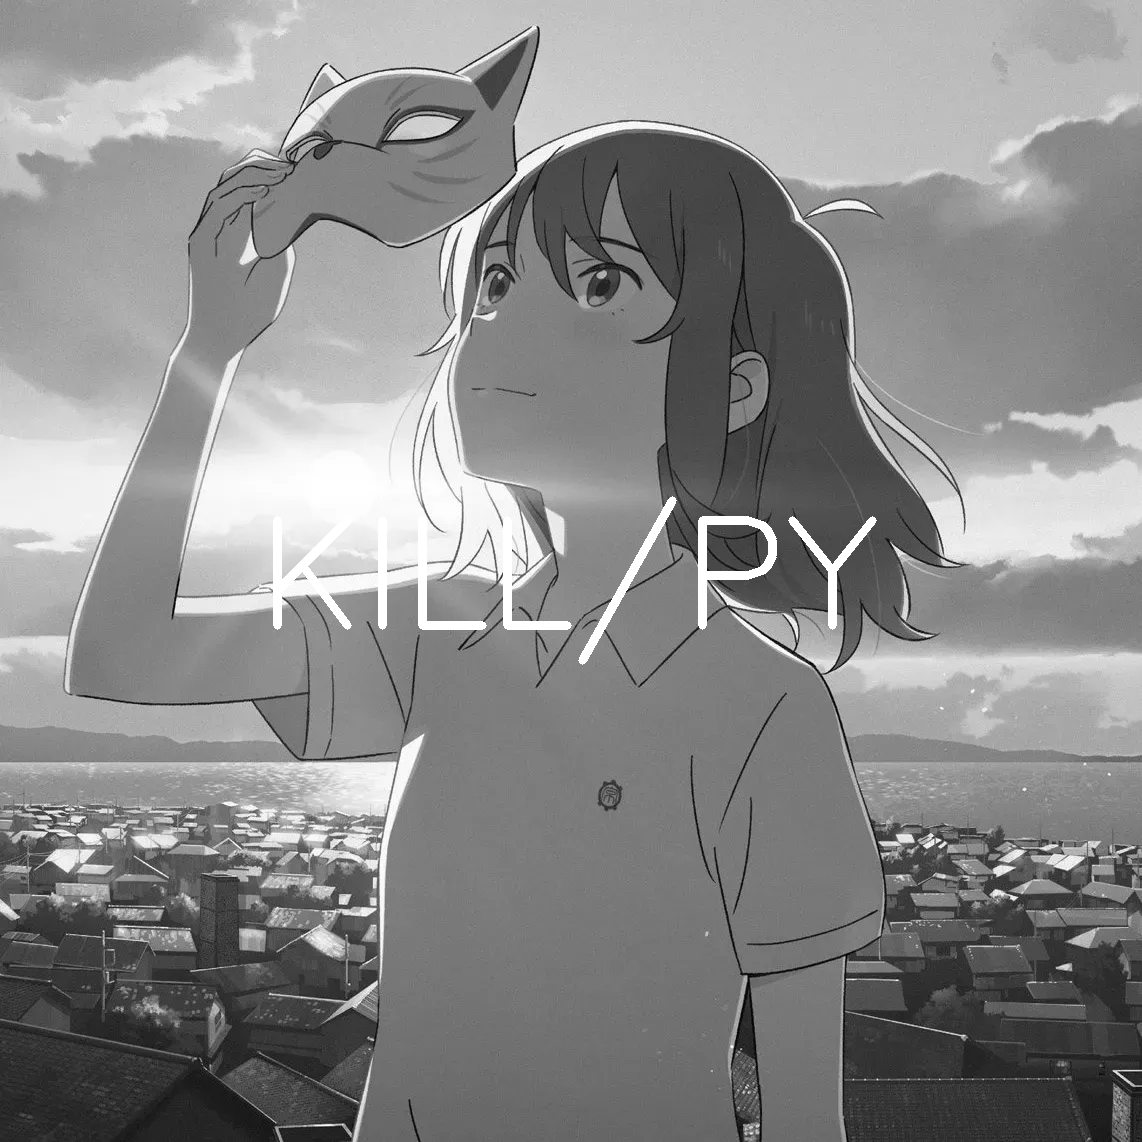
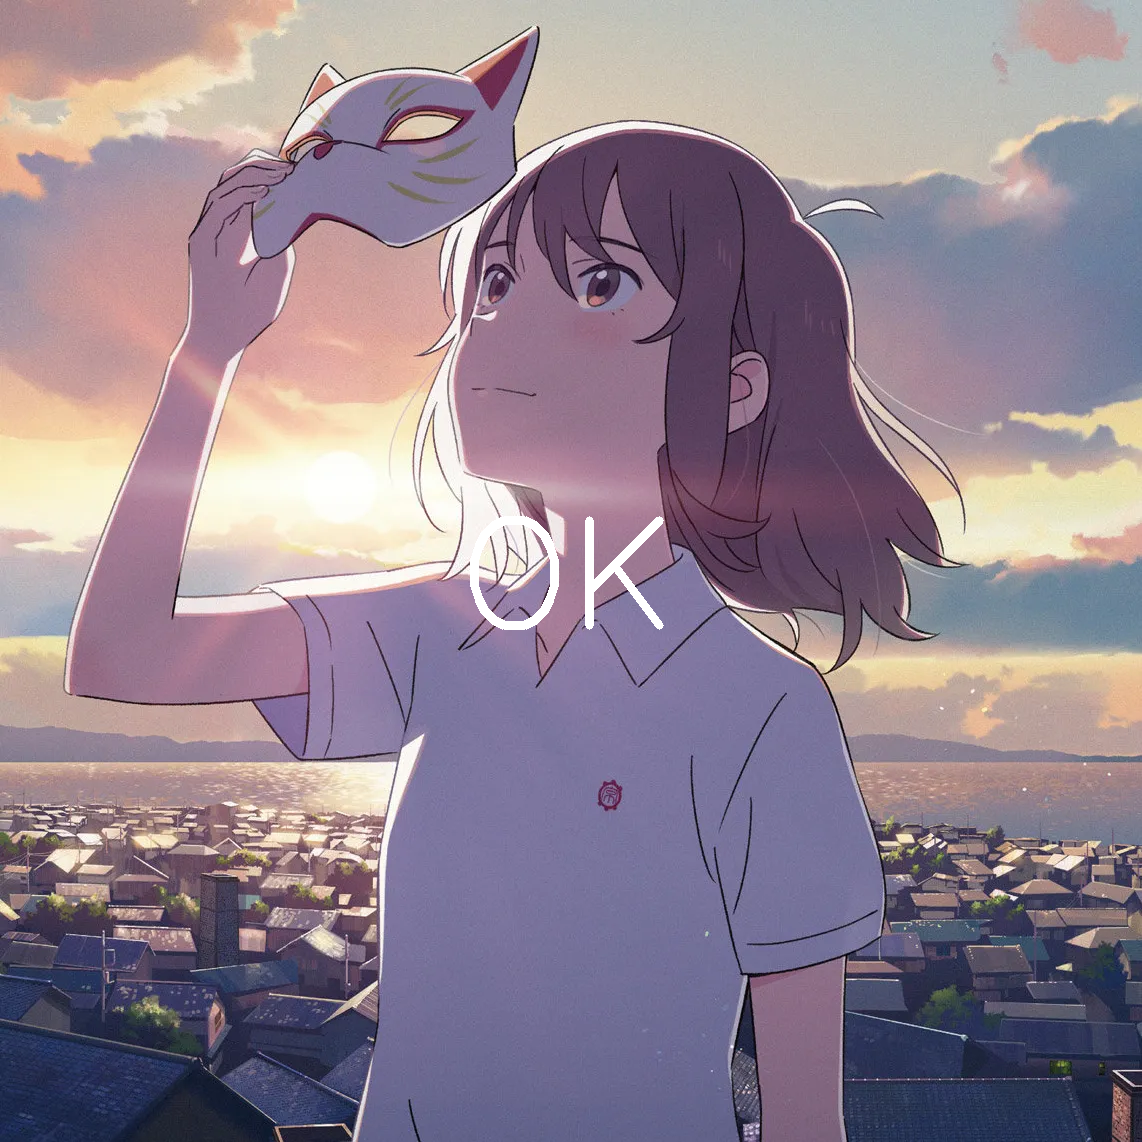
story 14 evolution

diff --git a/main.py b/main.py
@@ -229,6 +229,26 @@ def image_transformation(filters,input_folder:str,output_picture:str):
                             # Retour erreur
                             print_and_log_msg(f"Impossible d'ajouter du texte sur l'image '{image_name}'. Veuillez vérifier les paramètre (--help).\n")
 
+                    # -- Story 14  -- #   
+                    elif param_filter == "convert_aquaraelle":
+                        print_and_log_msg("---- ### Filtre Aquarelle ### ----\n")
+                        
+                        # Charge l'image
+                        image = load_picture(image_name)
+                        
+                        try:
+                            # Convertir l'image en noir et blanc
+                            watercolor_image = cv2.stylization(image, sigma_s=60, sigma_r=0.6)
+
+                            # Sauvegarde de l'image transformé
+                            save_picture(watercolor_image, modify_picture, image_name)
+                            
+                            # Retour l'état final à l'utilisateur
+                            print_and_log_msg(f"L'image '{image_name}' a bien été transformée en noir et blanc.\n")
+                        except :
+                            # Retour erreur
+                            print_and_log_msg(f"Impossible de transformée l'image '{image_name}' en noir et blanc. Veuillez vérifier les paramètre (--help).\n")
+
                     else:
                         # Retour erreur commande
                         print_and_log_msg("---- ### Erreur opération non reconnue ### ----\n")
